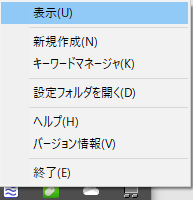
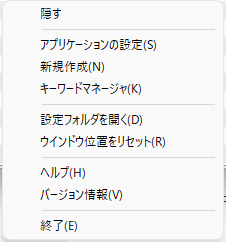
ウインドウ位置をリセットする機能を追加

diff --git a/soyokaze/gui/SoyokazeDlg.cpp b/soyokaze/gui/SoyokazeDlg.cpp
@@ -41,7 +41,7 @@ struct CSoyokazeDlg::PImpl
 	{
 	}
 
-	void RestoreWindowPosition(CWnd* thisPtr);
+	void RestoreWindowPosition(CWnd* thisPtr, bool isForceReset);
 	void UpdateGuide(CWnd* thisPtr, bool isShow);
 
 	HICON mIconHandle;
@@ -89,10 +89,12 @@ struct CSoyokazeDlg::PImpl
 
 };
 
-void CSoyokazeDlg::PImpl::RestoreWindowPosition(CWnd* thisPtr)
+void CSoyokazeDlg::PImpl::RestoreWindowPosition(CWnd* thisPtr, bool isForceReset)
 {
 	mWindowPositionPtr = std::make_unique<WindowPosition>();
-	if (mWindowPositionPtr->Restore(thisPtr->GetSafeHwnd()) == false) {
+
+	bool isSucceededToRestore = mWindowPositionPtr->Restore(thisPtr->GetSafeHwnd());
+	if (isForceReset || isSucceededToRestore == false) {
 		// 復元に失敗した場合は中央に表示
 		thisPtr->SetWindowPos(nullptr, 0, 0, 600, 300, SWP_NOZORDER|SWP_NOMOVE);
 		thisPtr->CenterWindow();
@@ -235,7 +237,6 @@ void CSoyokazeDlg::ShowHelp()
 	ShellExecuteEx(&si);
 	CloseHandle(si.hProcess);
 }
-
 
 /**
  * ActiveWindow経由の処理
@@ -569,7 +570,7 @@ BOOL CSoyokazeDlg::OnInitDialog()
 	// in->UpdateGuide(this, pref->IsShowGuide());
 
 	// ウインドウ位置の復元
-	in->RestoreWindowPosition(this);
+	in->RestoreWindowPosition(this, false);
 
 	// 透明度制御
 	in->mWindowTransparencyPtr->SetWindowHandle(GetSafeHwnd());
@@ -1018,9 +1019,10 @@ void CSoyokazeDlg::OnContextMenu(
 	const int ID_MANAGER = 4;
 	const int ID_APPSETTING = 5;
 	const int ID_USERDIR = 6;
-	const int ID_MANUAL = 7;
-	const int ID_VERSIONINFO = 8;
-	const int ID_EXIT = 9;
+	const int ID_RESETPOS = 7;
+	const int ID_MANUAL = 8;
+	const int ID_VERSIONINFO = 9;
+	const int ID_EXIT = 19;
 
 	BOOL isVisible = IsWindowVisible();
 	CString textToggleVisible(isVisible ? (LPCTSTR)IDS_MENUTEXT_HIDE : (LPCTSTR)IDS_MENUTEXT_SHOW);
@@ -1032,6 +1034,7 @@ void CSoyokazeDlg::OnContextMenu(
 	menu.InsertMenu(-1, 0, ID_MANAGER, _T("キーワードマネージャ(&K)"));
 	menu.InsertMenu(-1, MF_SEPARATOR, 0, _T(""));
 	menu.InsertMenu(-1, 0, ID_USERDIR, _T("設定フォルダを開く(&D)"));
+	menu.InsertMenu(-1, 0, ID_RESETPOS, _T("ウインドウ位置をリセット(&R)"));
 	menu.InsertMenu(-1, MF_SEPARATOR, 0, _T(""));
 	menu.InsertMenu(-1, 0, ID_MANUAL, _T("ヘルプ(&H)"));
 	menu.InsertMenu(-1, 0, ID_VERSIONINFO, _T("バージョン情報(&V)"));
@@ -1057,6 +1060,10 @@ void CSoyokazeDlg::OnContextMenu(
 	}
 	else if (n == ID_USERDIR) {
 		ExecuteCommand(_T("userdir"));
+	}
+	else if (n == ID_RESETPOS) {
+		// ウインドウ位置をリセット
+		in->RestoreWindowPosition(this, true);
 	}
 	else if (n == ID_MANUAL) {
 		// ヘルプ表示

diff --git a/soyokaze/gui/IconLabel.cpp b/soyokaze/gui/IconLabel.cpp
@@ -70,7 +70,7 @@ void IconLabel::DrawIcon(CDC* pDC, HICON iconHandle)
 void IconLabel::DrawDefaultIcon()
 {
 	if (mIconDefault == nullptr) {
-		mIconDefault = IconLoader::Get()->LoadDefaultIcon();
+		mIconDefault = IconLoader::Get()->GetImageResIcon(-5308);
 	}
 	DrawIcon(mIconDefault);
 }

diff --git a/doc/help.md b/doc/help.md
@@ -1028,6 +1028,9 @@ PCの性能によっては、途中で打ち切らないと、入力時のレス
   - キーワードマネージャを表示する
 - `設定フォルダを開く`
   - 本アプリのユーザ設定が保存されたフォルダをひらく
+- `ウインドウ位置をリセット`
+  - 入力画面の位置・サイズを初期状態に戻す
+    - マルチモニタ環境にて別モニターで表示したまま、モニターの構成が変化して表示できなくなったときの復旧用
 - `ヘルプ`
   - このファイルを開く
 - `バージョン情報`

diff --git a/CHANGELOG.md b/CHANGELOG.md
@@ -2,6 +2,10 @@
 
 ## [Unreleased]
 
+### Added
+
+- ウインドウ位置をリセットする機能を追加
+
 ## [0.17.3] - 2024-03-12
 
 ### Changed
